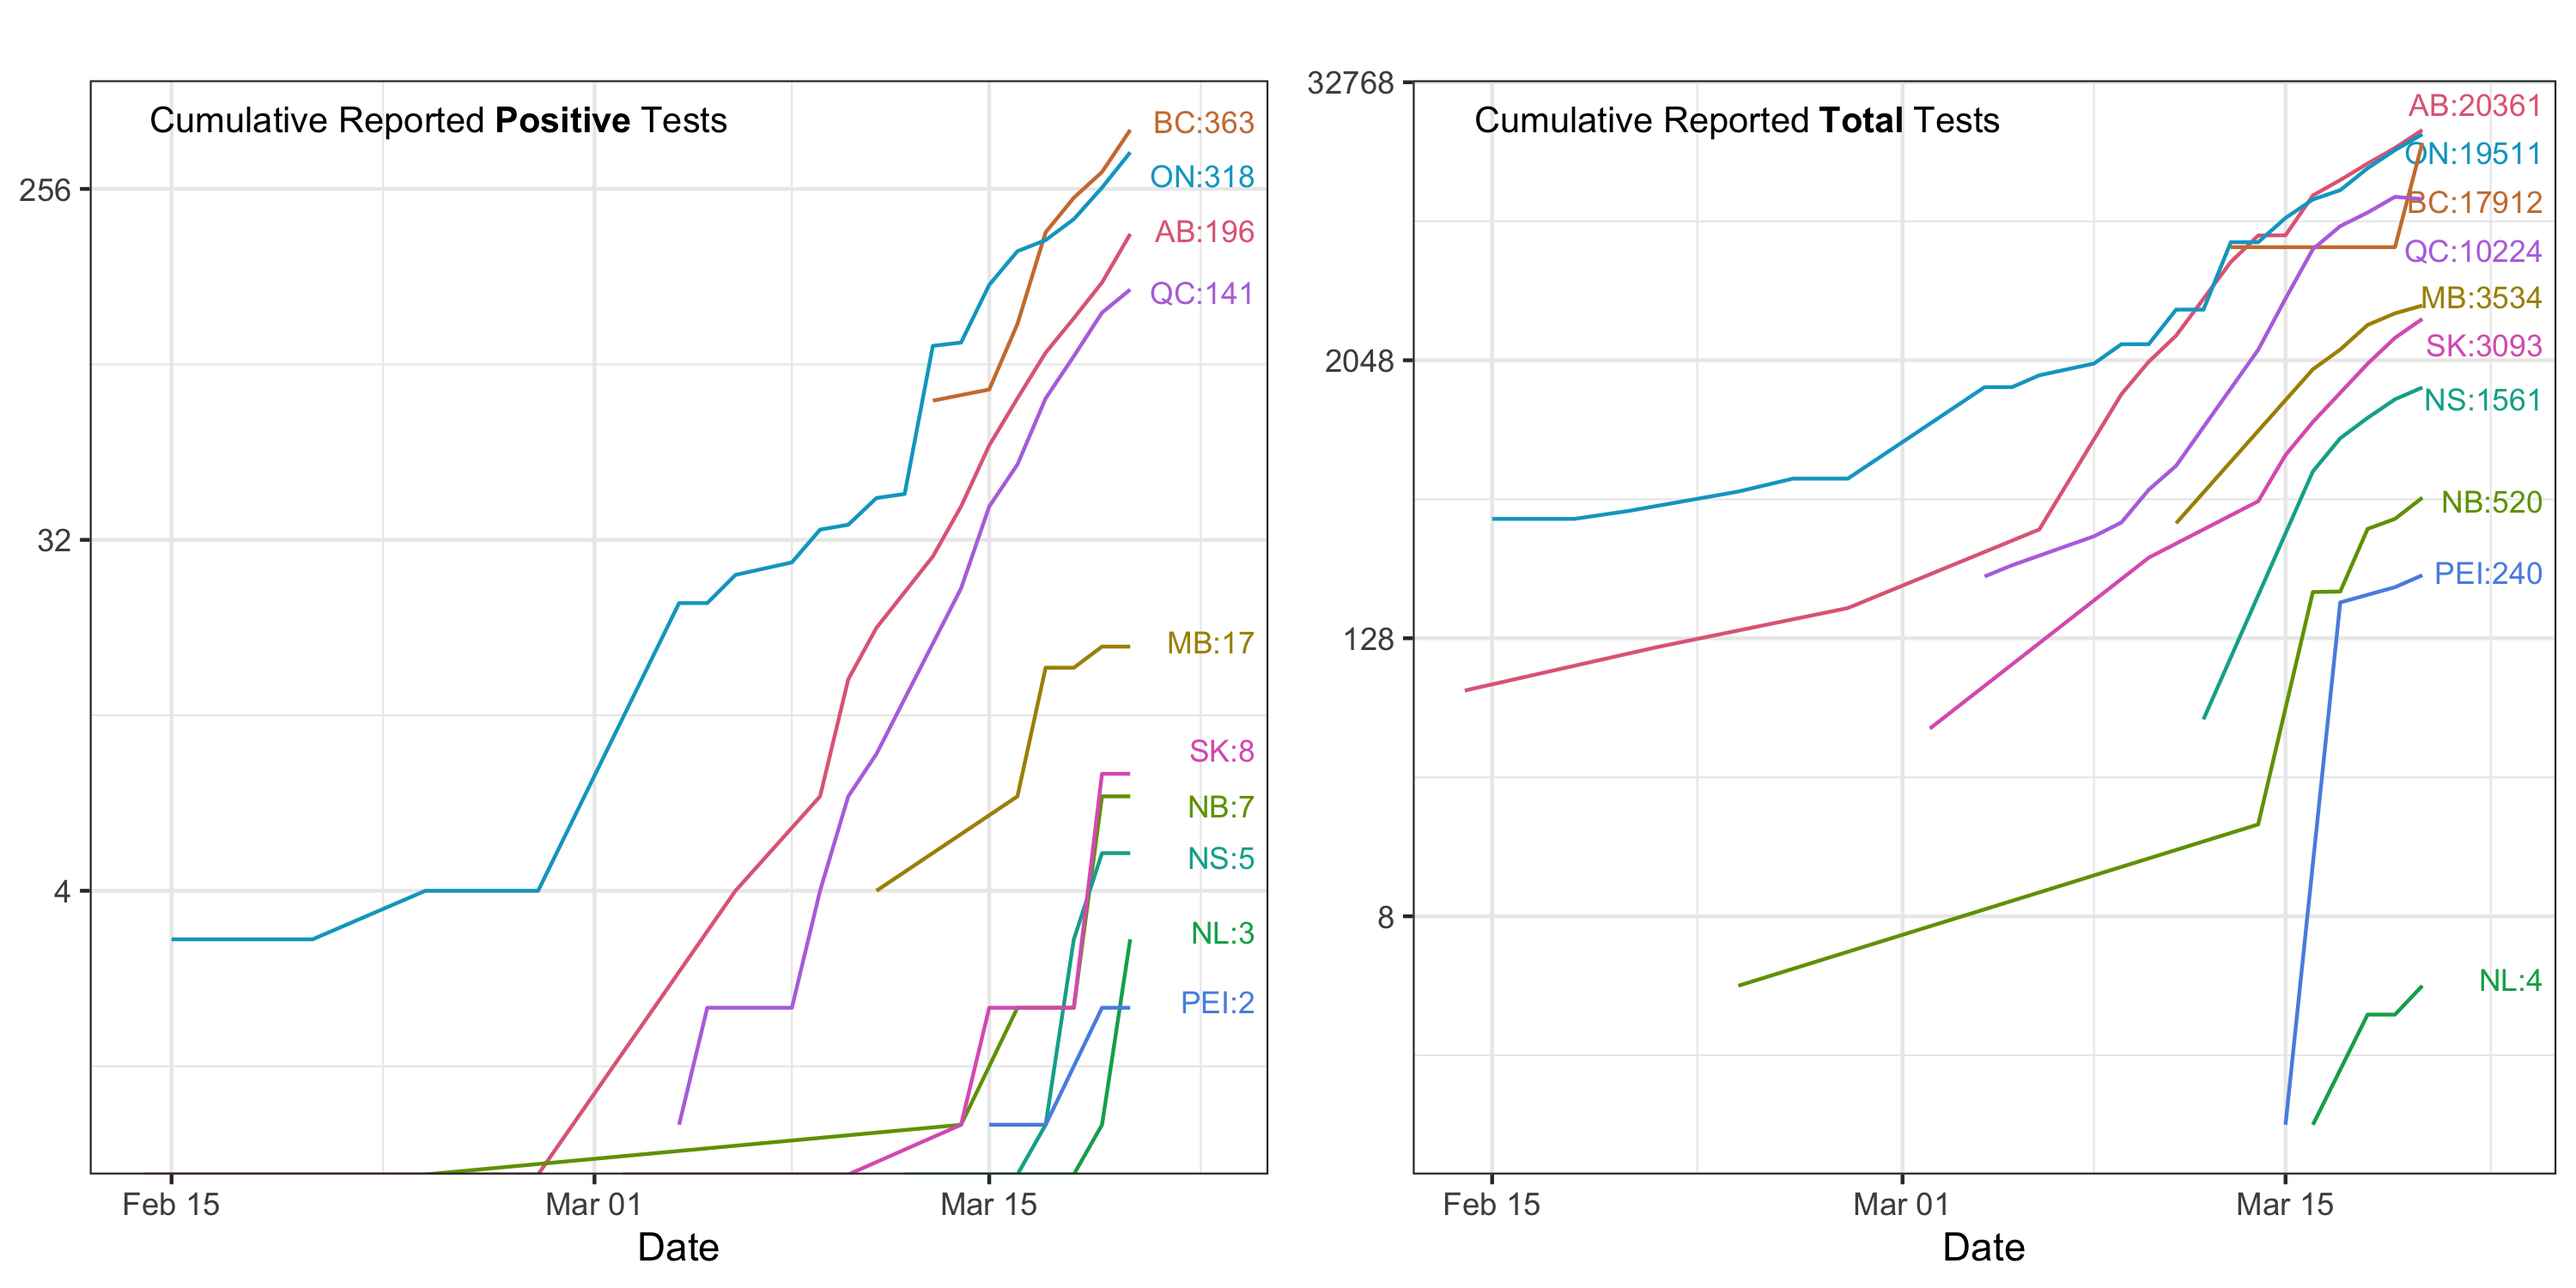
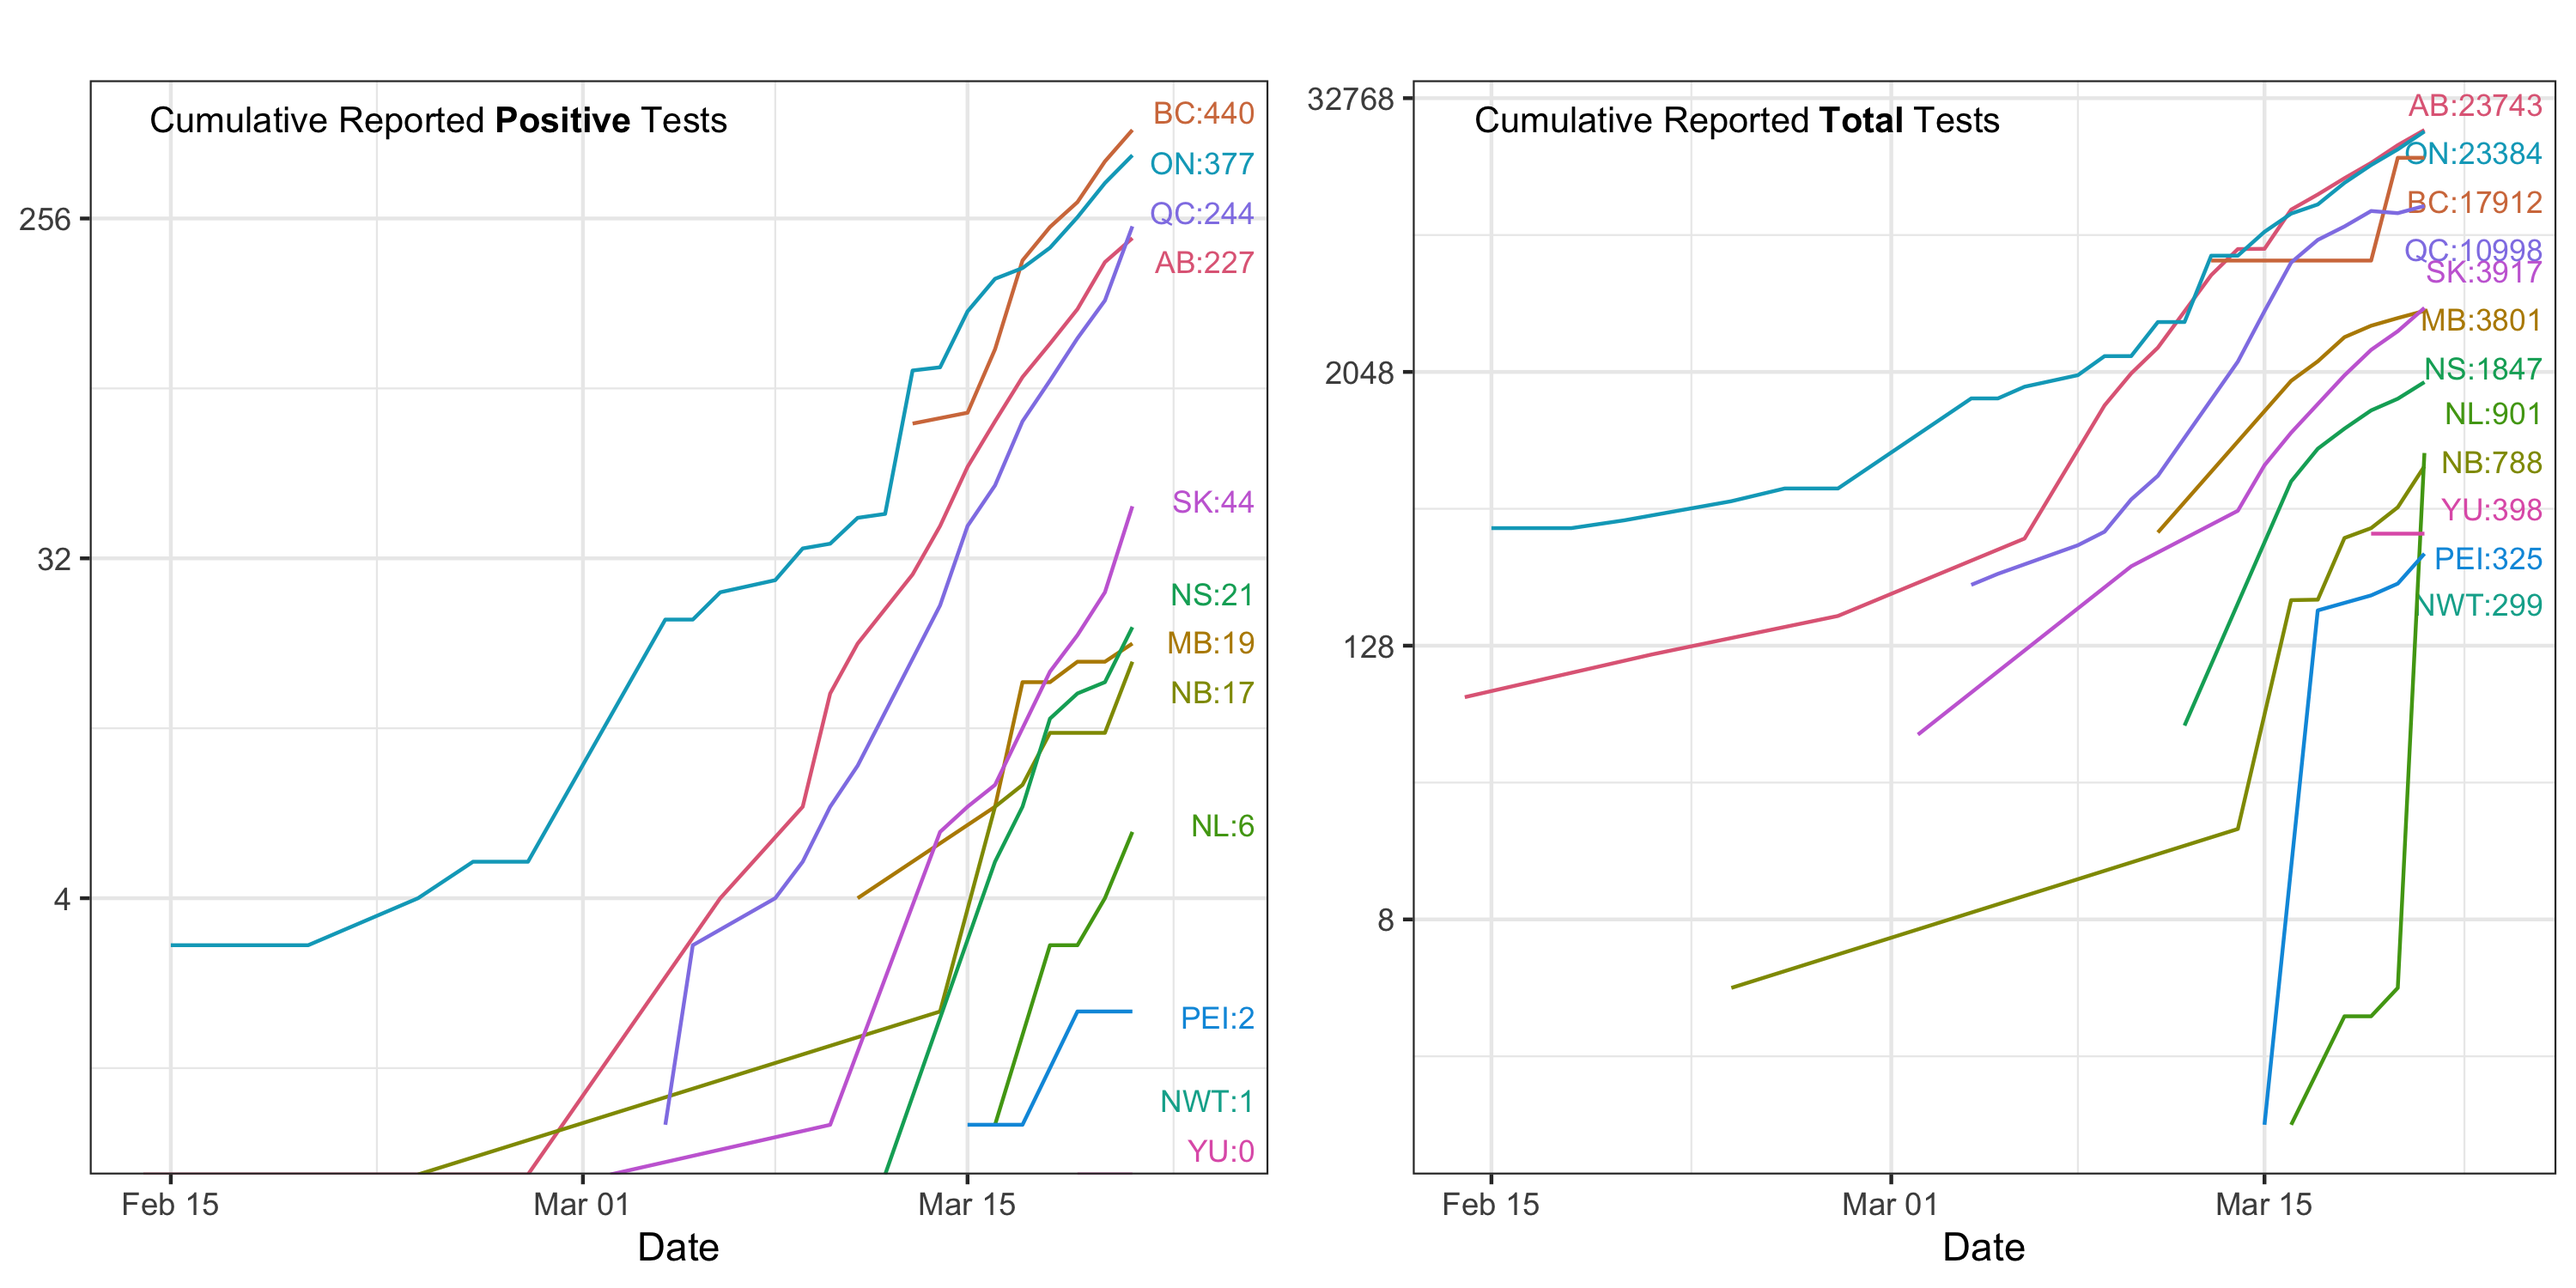
March 21st update

diff --git a/README.md b/README.md
@@ -1,6 +1,6 @@
 This is a public open-resource page for the COVID19 testing data for Canada. 
 
-_last updated: March 20th 22:46 Toronto time_
+_last updated: March 21th 21:57 Toronto time_
 
 ## COVID19 Testing Data
 
